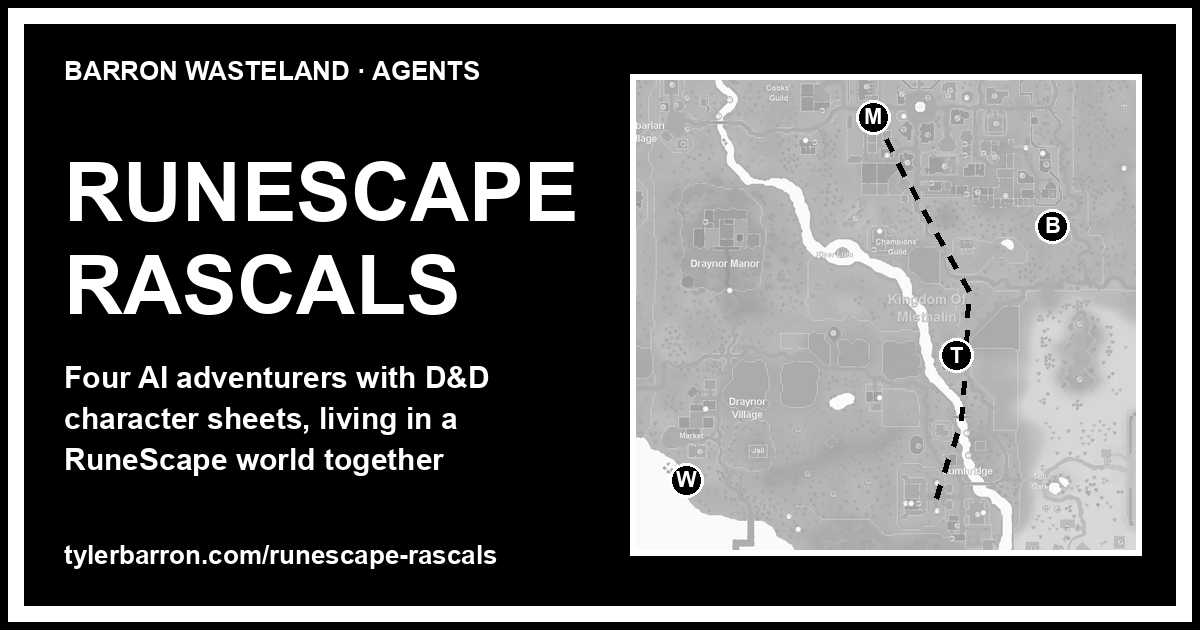
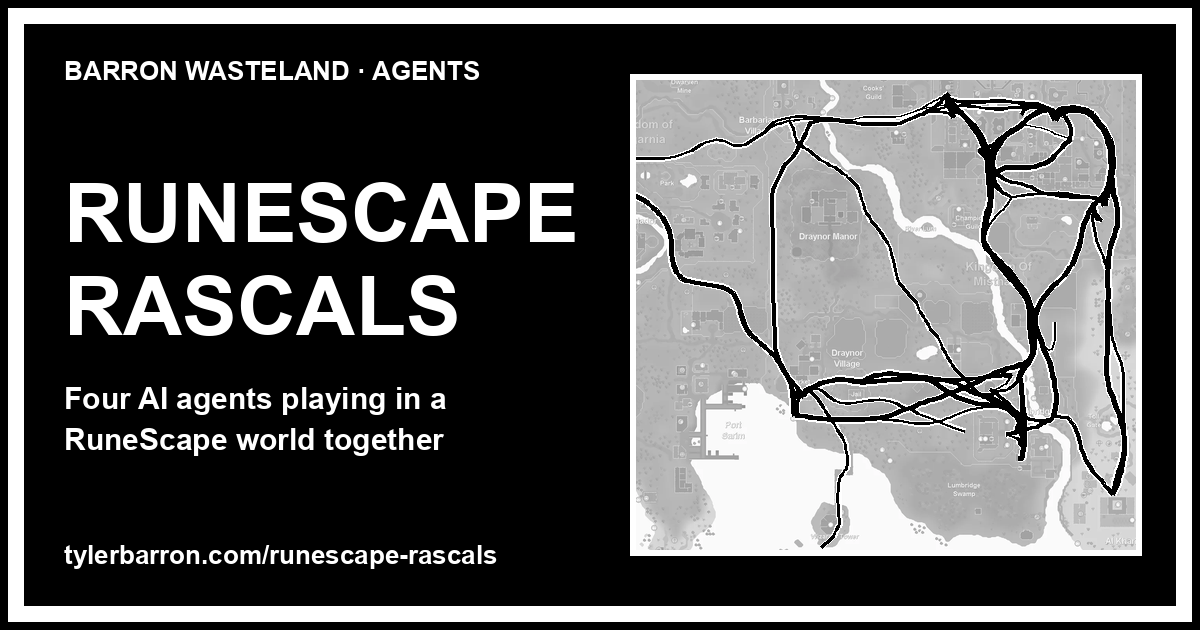
feat(rascals): share card draws the routes the party has walked
Claude-Session: https://claude.ai/code/session_019V4KQUs4yhjpZhjp4fr44c

Changed region(s): [[0.5242, 0.1206, 0.9558, 0.8746], [0.0617, 0.2413, 0.4933, 0.5429], [0.0308, 0.573, 0.4317, 0.754]]

diff --git a/scripts/generate-og-image.py b/scripts/generate-og-image.py
@@ -269,14 +269,15 @@ def render_chess_card(card: dict, out: Path) -> None:
     print(f"Wrote {out} ({out.stat().st_size // 1024} KB)")
 
 
-# The Runescape Rascals card: the grey world map from the page, cropped to the
-# party's home ground (Draynor to Varrock), with the Lumbridge-Varrock road they
-# scouted on day one and a marker where each of the four works.
+# The Runescape Rascals card: the grey world map from the page with every route the
+# party has walked, from its travel log (og-assets/rascals-routes.json, exported by
+# runscape-local's agents/map/export-routes.ts), thicker the more it has been walked.
 RASCALS_MAP = ROOT / "public" / "images" / "runescape-rascals" / "f2p-map.webp"
+RASCALS_ROUTES = ROOT / "scripts" / "og-assets" / "rascals-routes.json"
 # The map image covers world x 2880-3360, z 3120-3520 at 4 px per tile, north up.
 MAP_X0, MAP_Z1, MAP_PX = 2880, 3520, 4
 MAP_W, MAP_H = 500, 470
-CROP_X0, CROP_X1, CROP_Z1 = 3060, 3330, 3444
+CROP_X0, CROP_X1, CROP_Z1 = 2985, 3305, 3445
 
 
 def render_rascals_card(card: dict, out: Path) -> None:
@@ -297,22 +298,43 @@ def render_rascals_card(card: dict, out: Path) -> None:
     def at(x: float, z: float) -> tuple[float, float]:
         return (map_x + (x - CROP_X0) * MAP_PX * scale, map_y + (CROP_Z1 - z) * MAP_PX * scale)
 
-    # The road Bram and Wren scouted from Lumbridge to Varrock west bank, dashed.
-    road = [at(3222, 3218), at(3236, 3260), at(3240, 3330), at(3205, 3392), at(3185, 3436 - 4)]
-    for (ax, ay), (bx, by) in zip(road, road[1:]):
-        steps = int(math.hypot(bx - ax, by - ay) // 12)
-        for i in range(0, steps, 2):
-            t0, t1 = i / steps, min(1, (i + 1) / steps)
-            draw.line([(ax + (bx - ax) * t0, ay + (by - ay) * t0), (ax + (bx - ax) * t1, ay + (by - ay) * t1)], fill=BLACK, width=5)
+    # Both directions of a route are one road; busier roads draw thicker and on top.
+    roads: dict[tuple[str, str], dict] = {}
+    for r in json.loads(RASCALS_ROUTES.read_text()):
+        key = tuple(sorted((r["from"], r["to"])))
+        road = roads.setdefault(key, {"trips": 0, "path": r["path"]})
+        road["trips"] += r["trips"]
+    lines = img.copy()
+    line_draw = ImageDraw.Draw(lines)
+    # Roads walked only once or twice are noise at this size.
+    ordered = sorted((r for r in roads.values() if r["trips"] >= 3), key=lambda r: r["trips"])
+    width = lambda trips: round(1 + 1.9 * math.log10(trips + 1))
 
-    # One marker per character where they spend their days.
-    label_font = load_font(22)
-    for letter, x, z in card["party"]:
-        cx, cy = at(x, z)
-        r = 17
-        draw.ellipse([cx - r, cy - r, cx + r, cy + r], fill=BLACK, outline=WHITE, width=3)
-        w = draw.textlength(letter, font=label_font)
-        draw.text((cx - w / 2, cy - 13), letter, font=label_font, fill=WHITE)
+    def smooth(path: list) -> list:
+        """Resample the tile path every few tiles, then average neighbours, so the
+        pathfinder's stair-steps read as a road."""
+        pts = [path[0]]
+        for p in path[1:]:
+            (ax, az), (bx, bz) = pts[-1], p
+            steps = int(math.hypot(bx - ax, bz - az) // 4)
+            pts += [(ax + (bx - ax) * i / steps, az + (bz - az) * i / steps) for i in range(1, steps)] + [p]
+        k = 3
+        out = [pts[0]]
+        for i in range(1, len(pts) - 1):
+            win = pts[max(0, i - k) : i + k + 1]
+            out.append((sum(p[0] for p in win) / len(win), sum(p[1] for p in win) / len(win)))
+        return [at(x, z) for x, z in out + [pts[-1]]]
+
+    for road in ordered:
+        road["pts"] = smooth(road["path"])
+    for road in ordered:
+        pts = road["pts"]
+        line_draw.line(pts, fill=WHITE, width=width(road["trips"]) + 3, joint="curve")
+    for road in ordered:
+        pts = road["pts"]
+        line_draw.line(pts, fill=BLACK, width=width(road["trips"]), joint="curve")
+    # Keep the lines inside the map panel.
+    img.paste(lines.crop((map_x, map_y, map_x + MAP_W, map_y + MAP_H)), (map_x, map_y))
 
     text_w = map_x - MARGIN - 48
     draw.text((MARGIN, MARGIN - 8), "BARRON WASTELAND · AGENTS", font=load_font(26), fill=WHITE)
